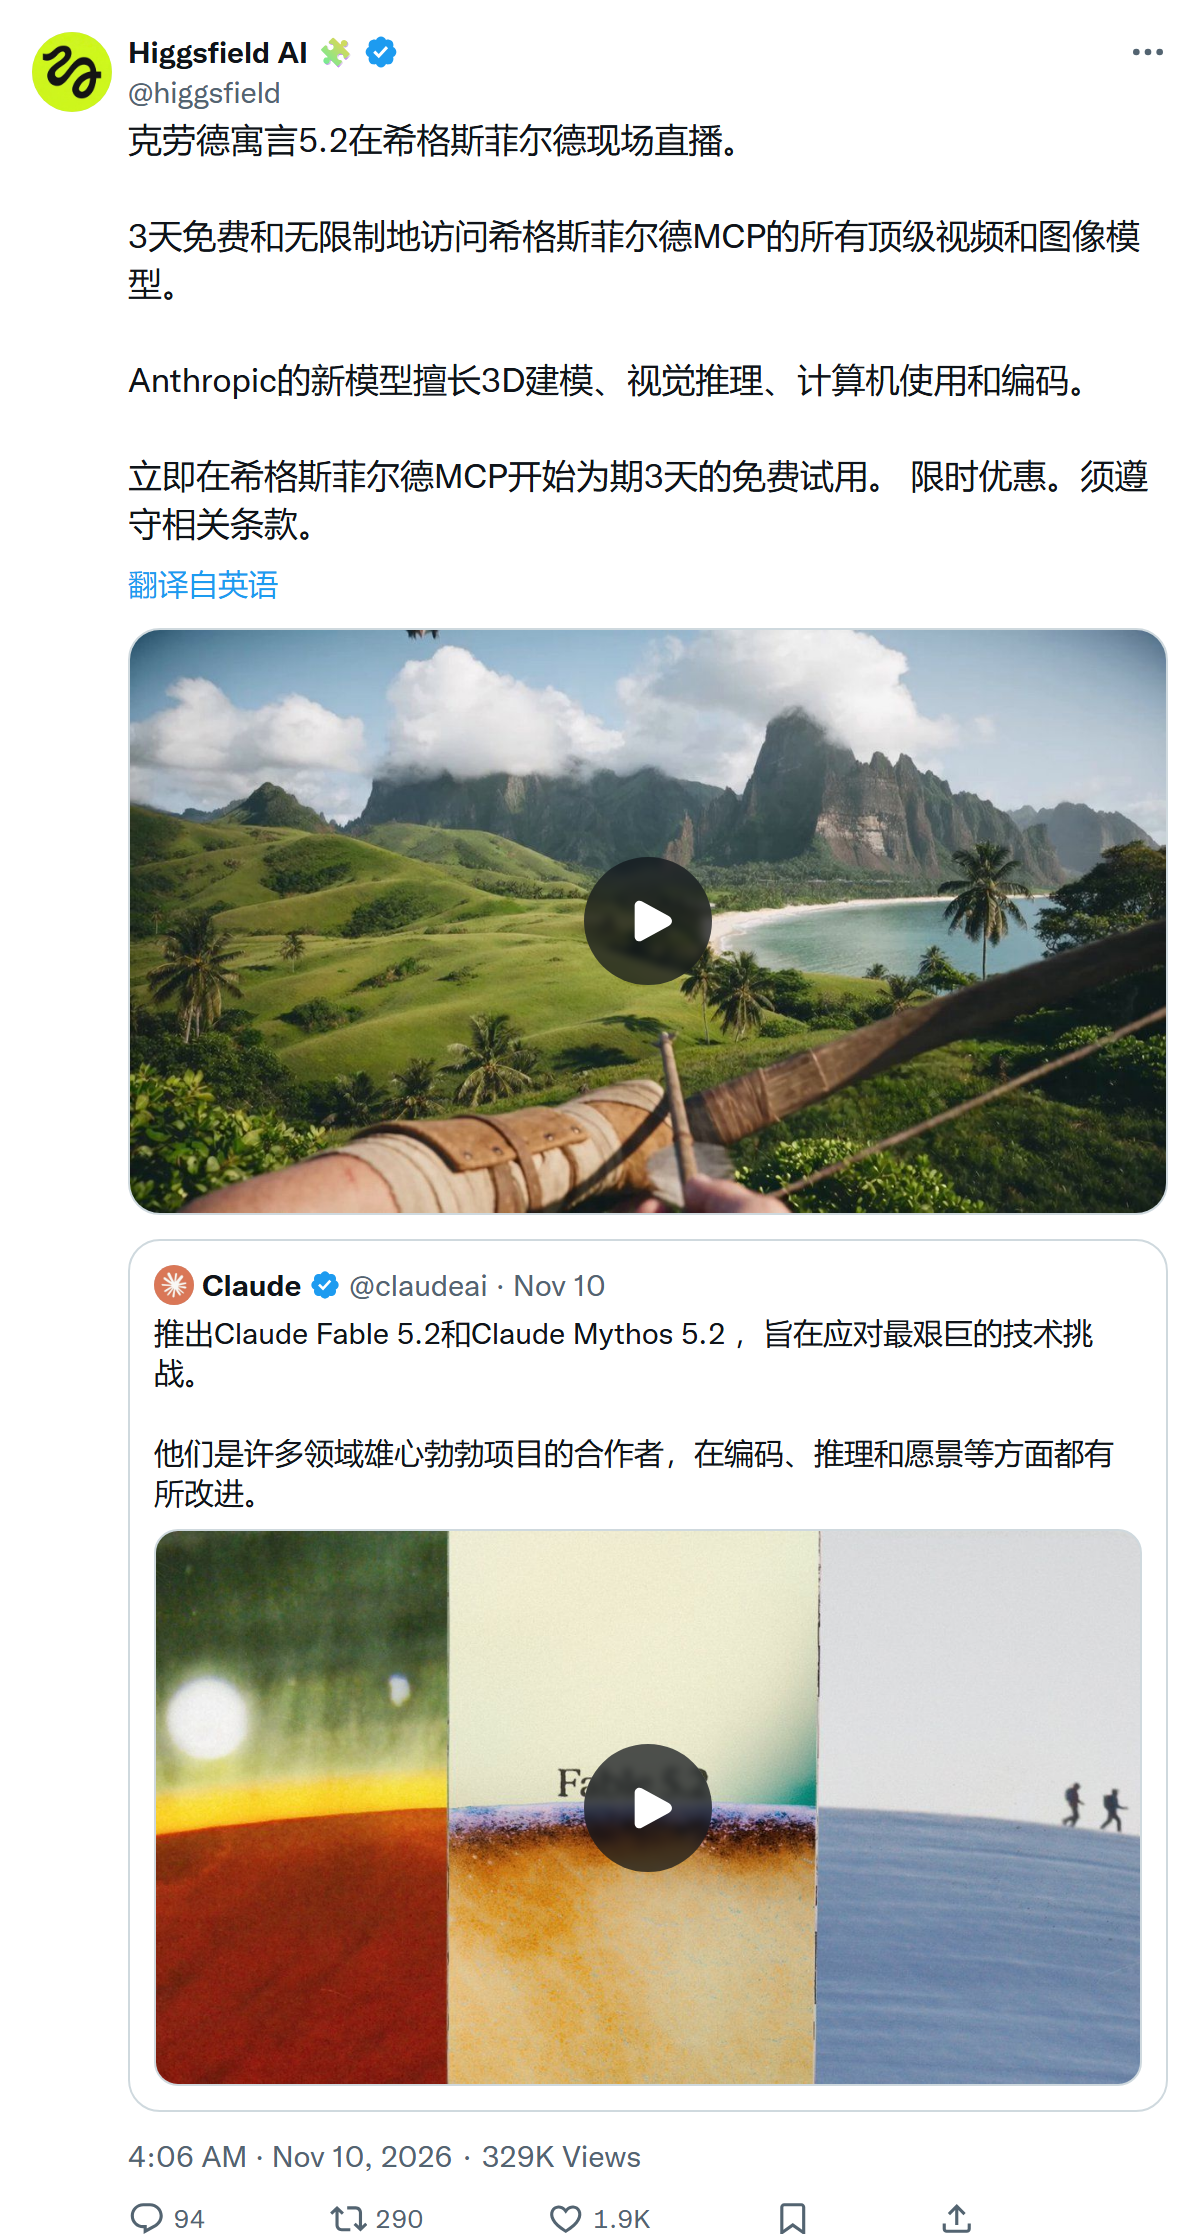
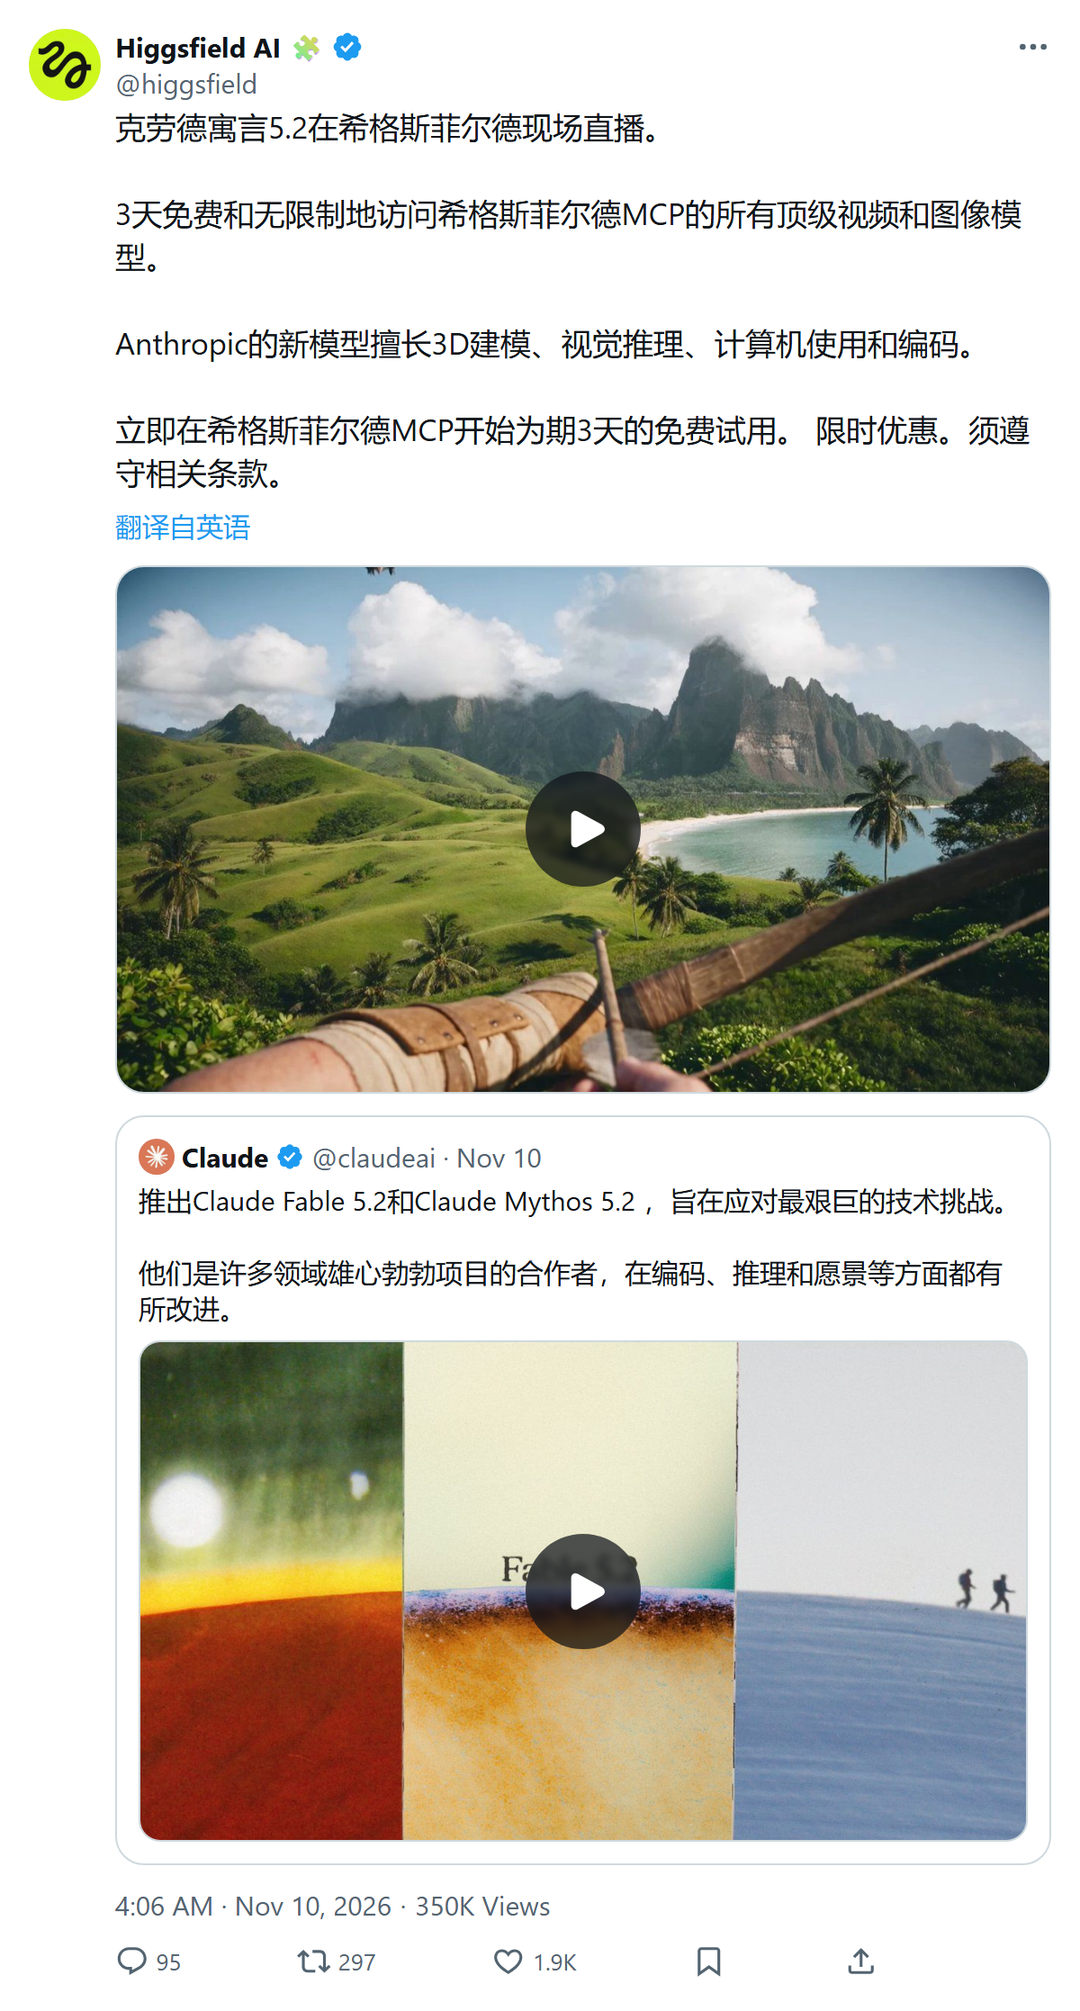
feat(x): 长帖跨页横排；点图开页内悬浮窗而非跳转

Changed region(s): [[0.0917, 0.5549, 0.9778, 1.0], [0.0917, 0.0, 0.9472, 0.2775], [0.7944, 0.9866, 0.825, 1.0]]

diff --git a/data/digests/site/2026-11-10.html b/data/digests/site/2026-11-10.html
@@ -272,7 +272,7 @@
         </li>
         <li class="item" id="e-e98c1c9aaf14e96">
           <div class="item__head"><span class="item__no">09</span><h3 class="item__title"><a href="https://blog.google/innovation-and-ai/infrastructure-and-cloud/global-network/tpu-8i-max-and-8tx/" target="_blank" rel="noopener noreferrer">TPU 8tx and TPU 8i Max</a></h3></div>
-          <div class="item__images"><button type="button" class="item__thumb" data-full="https://cdn.jsdelivr.net/gh/siweimidu/ai-daily-media@main/2026-11-10/e98c1c9aaf14e96-m001-5a6fd0b4.webp" aria-label="放大图片"><img src="https://cdn.jsdelivr.net/gh/siweimidu/ai-daily-media@main/2026-11-10/e98c1c9aaf14e96-m001-5a6fd0b4.webp" alt="" loading="lazy" decoding="async" onerror="this.closest(.item__thumb).remove()"></button></div><figure class="item__x"><a href="https://x.com/i/status/2119788086490001906" target="_blank" rel="noopener noreferrer"><img src="assets/x/2119788086490001906.png?v=926993" alt="原帖" loading="lazy" decoding="async"></a><figcaption>原帖截图 · <a href="https://x.com/i/status/2119788086490001906" target="_blank" rel="noopener noreferrer">打开 X</a></figcaption></figure>
+          <div class="item__images"><button type="button" class="item__thumb" data-full="https://cdn.jsdelivr.net/gh/siweimidu/ai-daily-media@main/2026-11-10/e98c1c9aaf14e96-m001-5a6fd0b4.webp" aria-label="放大图片"><img src="https://cdn.jsdelivr.net/gh/siweimidu/ai-daily-media@main/2026-11-10/e98c1c9aaf14e96-m001-5a6fd0b4.webp" alt="" loading="lazy" decoding="async" onerror="this.closest(.item__thumb).remove()"></button></div><figure class="item__x"><a class="item__x-open" href="#xz-e98c1c9aaf14e96" aria-label="查看原帖大图"><img src="assets/x/2119788086490001906.png?v=989209" alt="原帖" loading="lazy" decoding="async"></a><figcaption>原帖截图 · 点击看大图 · <a href="https://x.com/i/status/2119788086490001906" target="_blank" rel="noopener noreferrer">打开 X</a></figcaption></figure><div class="xzoom" id="xz-e98c1c9aaf14e96"><a class="xzoom__backdrop" href="#e-e98c1c9aaf14e96" aria-label="关闭"></a><img src="assets/x/2119788086490001906.png?v=989209" alt="原帖大图"><a class="xzoom__close" href="#e-e98c1c9aaf14e96" aria-label="关闭">×</a></div>
           
           <div class="item__meta">
             <span class="badge" data-level="multi_source">多源交叉验证</span>
@@ -402,7 +402,7 @@
         </li>
         <li class="item" id="e-e576bc7443e2baf">
           <div class="item__head"><span class="item__no">19</span><h3 class="item__title"><a href="https://artificialanalysis.ai/models/claude-fable-5-2" target="_blank" rel="noopener noreferrer">Anthropic 发布 Fable 5.2 并在物理任务测试中领先</a></h3></div>
-          <figure class="item__x"><a href="https://x.com/i/status/2119878995386982508" target="_blank" rel="noopener noreferrer"><img src="assets/x/2119878995386982508.png?v=1086060" alt="原帖" loading="lazy" decoding="async"></a><figcaption>原帖截图 · <a href="https://x.com/i/status/2119878995386982508" target="_blank" rel="noopener noreferrer">打开 X</a></figcaption></figure>
+          <figure class="item__x"><a class="item__x-open" href="#xz-e576bc7443e2baf" aria-label="查看原帖大图"><img src="assets/x/2119878995386982508.png?v=232922" alt="原帖" loading="lazy" decoding="async"></a><figcaption>原帖截图 · 点击看大图 · <a href="https://x.com/i/status/2119878995386982508" target="_blank" rel="noopener noreferrer">打开 X</a></figcaption></figure><div class="xzoom" id="xz-e576bc7443e2baf"><a class="xzoom__backdrop" href="#e-e576bc7443e2baf" aria-label="关闭"></a><img src="assets/x/2119878995386982508.png?v=232922" alt="原帖大图"><a class="xzoom__close" href="#e-e576bc7443e2baf" aria-label="关闭">×</a></div>
           
           <div class="item__meta">
             <span class="badge" data-level="multi_source">多源交叉验证</span>

diff --git a/data/digests/site/assets/components.css b/data/digests/site/assets/components.css
@@ -2392,3 +2392,40 @@ body { font-family: var(--f-sans); }
 }
 .item__x figcaption a { color: var(--accent); text-decoration: none; }
 .item__x figcaption a:hover { text-decoration: underline; }
+
+
+/* 点图后的全屏浮层。用 :target，没有 JS 也能开合，Esc/点背景/× 都关。
+   不用新标签页 —— 读者是在读日报，不该被一个截图带到别处。 */
+.xzoom { display: none; }
+.xzoom:target {
+  display: flex;
+  position: fixed;
+  inset: 0;
+  z-index: 90;
+  align-items: center;
+  justify-content: center;
+  padding: 24px;
+}
+.xzoom__backdrop {
+  position: absolute;
+  inset: 0;
+  background: rgb(0 0 0 / 72%);
+}
+.xzoom img {
+  position: relative;
+  max-width: min(96vw, 1200px);
+  max-height: 92vh;
+  width: auto;
+  height: auto;
+  border-radius: 12px;
+  box-shadow: 0 24px 60px -20px rgb(0 0 0 / 60%);
+}
+.xzoom__close {
+  position: absolute;
+  top: 18px;
+  right: 22px;
+  font-size: 32px;
+  line-height: 1;
+  color: #fff;
+  text-decoration: none;
+}

diff --git a/site/assets/components.css b/site/assets/components.css
@@ -2392,3 +2392,40 @@ body { font-family: var(--f-sans); }
 }
 .item__x figcaption a { color: var(--accent); text-decoration: none; }
 .item__x figcaption a:hover { text-decoration: underline; }
+
+
+/* 点图后的全屏浮层。用 :target，没有 JS 也能开合，Esc/点背景/× 都关。
+   不用新标签页 —— 读者是在读日报，不该被一个截图带到别处。 */
+.xzoom { display: none; }
+.xzoom:target {
+  display: flex;
+  position: fixed;
+  inset: 0;
+  z-index: 90;
+  align-items: center;
+  justify-content: center;
+  padding: 24px;
+}
+.xzoom__backdrop {
+  position: absolute;
+  inset: 0;
+  background: rgb(0 0 0 / 72%);
+}
+.xzoom img {
+  position: relative;
+  max-width: min(96vw, 1200px);
+  max-height: 92vh;
+  width: auto;
+  height: auto;
+  border-radius: 12px;
+  box-shadow: 0 24px 60px -20px rgb(0 0 0 / 60%);
+}
+.xzoom__close {
+  position: absolute;
+  top: 18px;
+  right: 22px;
+  font-size: 32px;
+  line-height: 1;
+  color: #fff;
+  text-decoration: none;
+}

diff --git a/src/aidaily/site.py b/src/aidaily/site.py
@@ -982,15 +982,24 @@ def render_item(
     x_url = (_facts.get("x_url") or [""])[0]
     x_html = ""
     if x_card:
+        # 点图开**页内悬浮窗**，不跳走。用 :target 实现，不需要 JS：
+        # 链接指到 #xz-<id>，那个 div 的 :target 规则把它显示成全屏浮层。
+        zoom_id = f"xz-{event.event_id}"
+        src = f"assets/x/{esc(x_card)}"
         x_html = (
             '<figure class="item__x">'
-            f'<a href="{esc(x_url) or "#"}" target="_blank" rel="noopener noreferrer">'
-            f'<img src="assets/x/{esc(x_card)}" alt="原帖" loading="lazy" decoding="async">'
+            f'<a class="item__x-open" href="#{zoom_id}" aria-label="查看原帖大图">'
+            f'<img src="{src}" alt="原帖" loading="lazy" decoding="async">'
             "</a>"
-            '<figcaption>原帖截图 · <a href="'
+            '<figcaption>原帖截图 · 点击看大图 · <a href="'
             + (esc(x_url) or "#")
             + '" target="_blank" rel="noopener noreferrer">打开 X</a></figcaption>'
             "</figure>"
+            f'<div class="xzoom" id="{zoom_id}">'
+            f'<a class="xzoom__backdrop" href="#{anchor}" aria-label="关闭"></a>'
+            f'<img src="{src}" alt="原帖大图">'
+            f'<a class="xzoom__close" href="#{anchor}" aria-label="关闭">×</a>'
+            "</div>"
         )
     _video_url = (_facts.get("video_url") or [""])[0]
     _video_title = (_facts.get("video_title") or [""])[0]

diff --git a/src/aidaily/xhigh.py b/src/aidaily/xhigh.py
@@ -106,9 +106,14 @@ def render(post_id: str, url: str, out_dir: Path) -> XPost | None:
         return None
     layout = "single"
 
-    # **只用单页卡片。** 跨页那种两页并排的版式在真实帖子上问题太多：右页经常半空、
-    # 长帖被压成一堆小字、原帖配图不显示。单页是 X 自己的版式，字号正常、配图在、
-    # 头像和蓝 V 都对 —— 高度参差由页面布局吸收，不为整齐去牺牲可读性。
+    # **长帖按 skill 的规范摊成左右两面。** 单页装不下时，竖着一条长图既读不完也看不清；
+    # 跨页是渲染器自己的版式：左页正文、右页互动数据与要点，页高由 `--long-height` 定。
+    # 短帖仍然单页 —— 两三句话摊成两页会留出半个空页。
+    if len(payload.get("text") or "") > LONG_THRESHOLD_CHARS:
+        spread = _run(url, target, "spread")
+        if spread is not None:
+            payload = spread
+            layout = "spread"
 
     author = payload.get("author") or {}
     if isinstance(author, dict):
